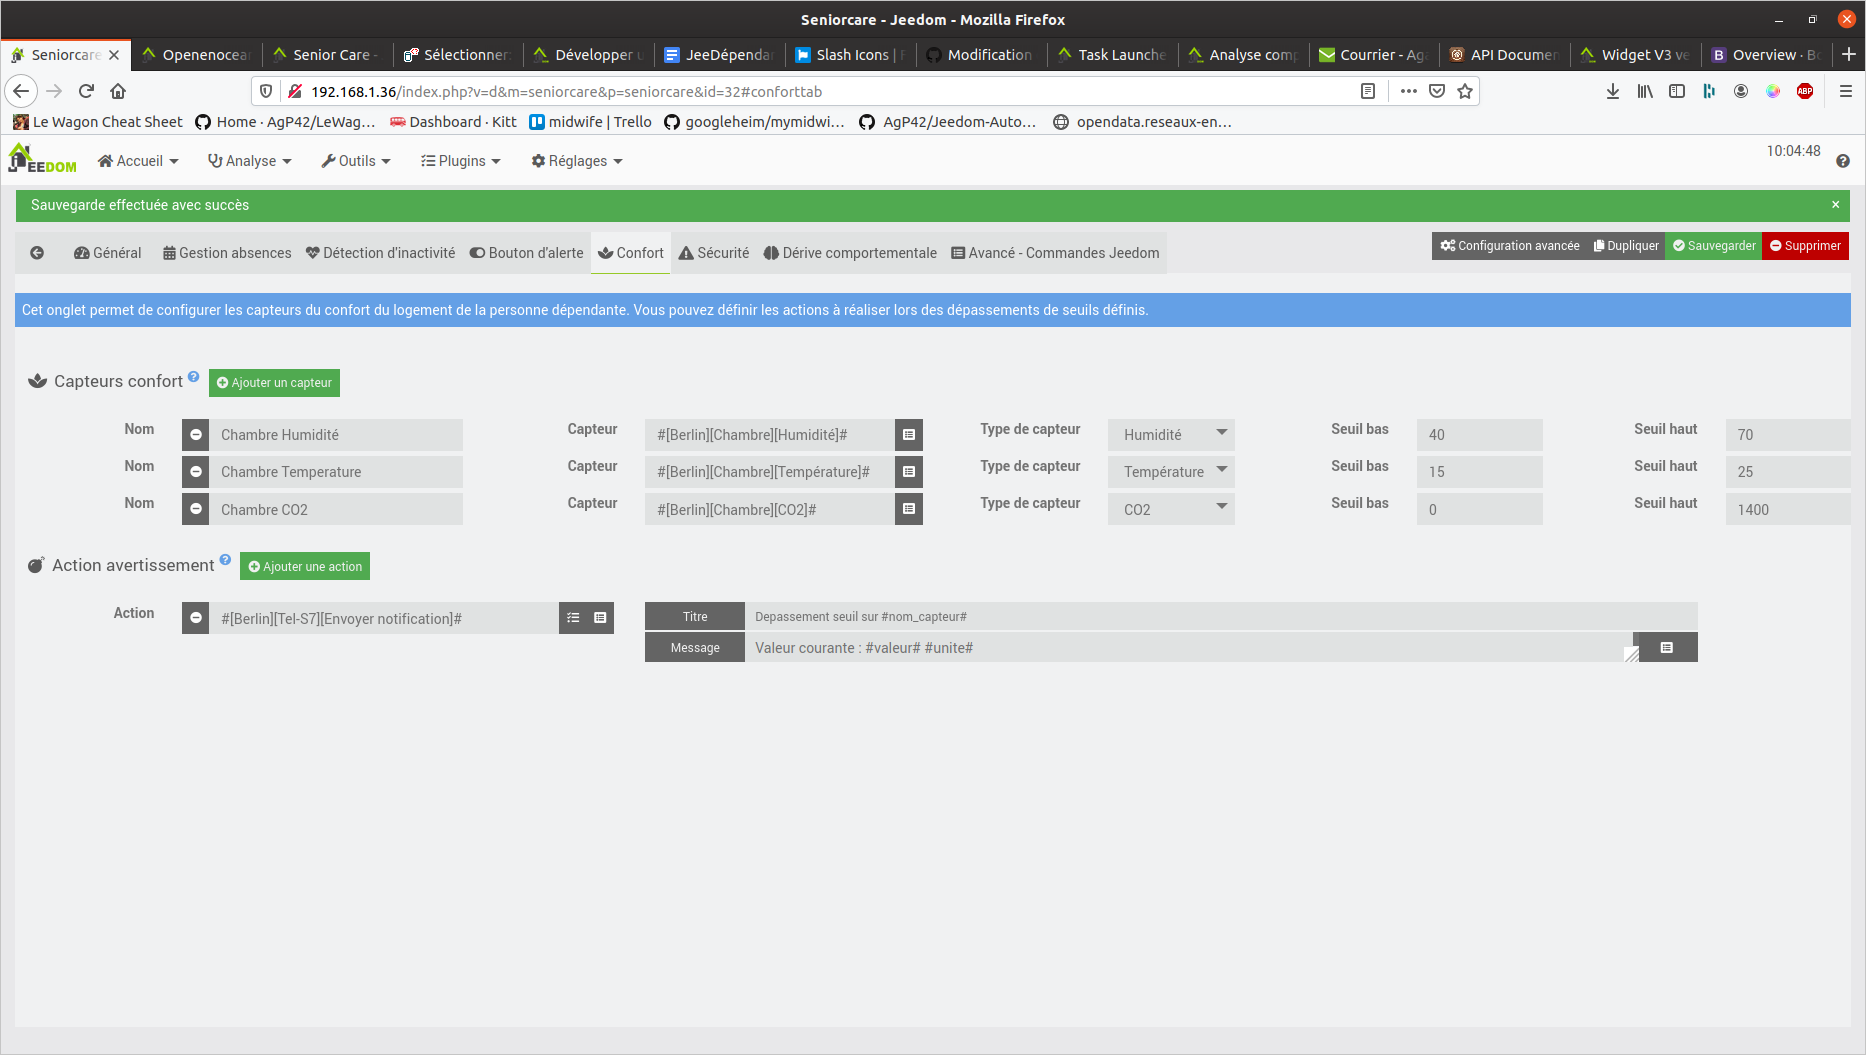
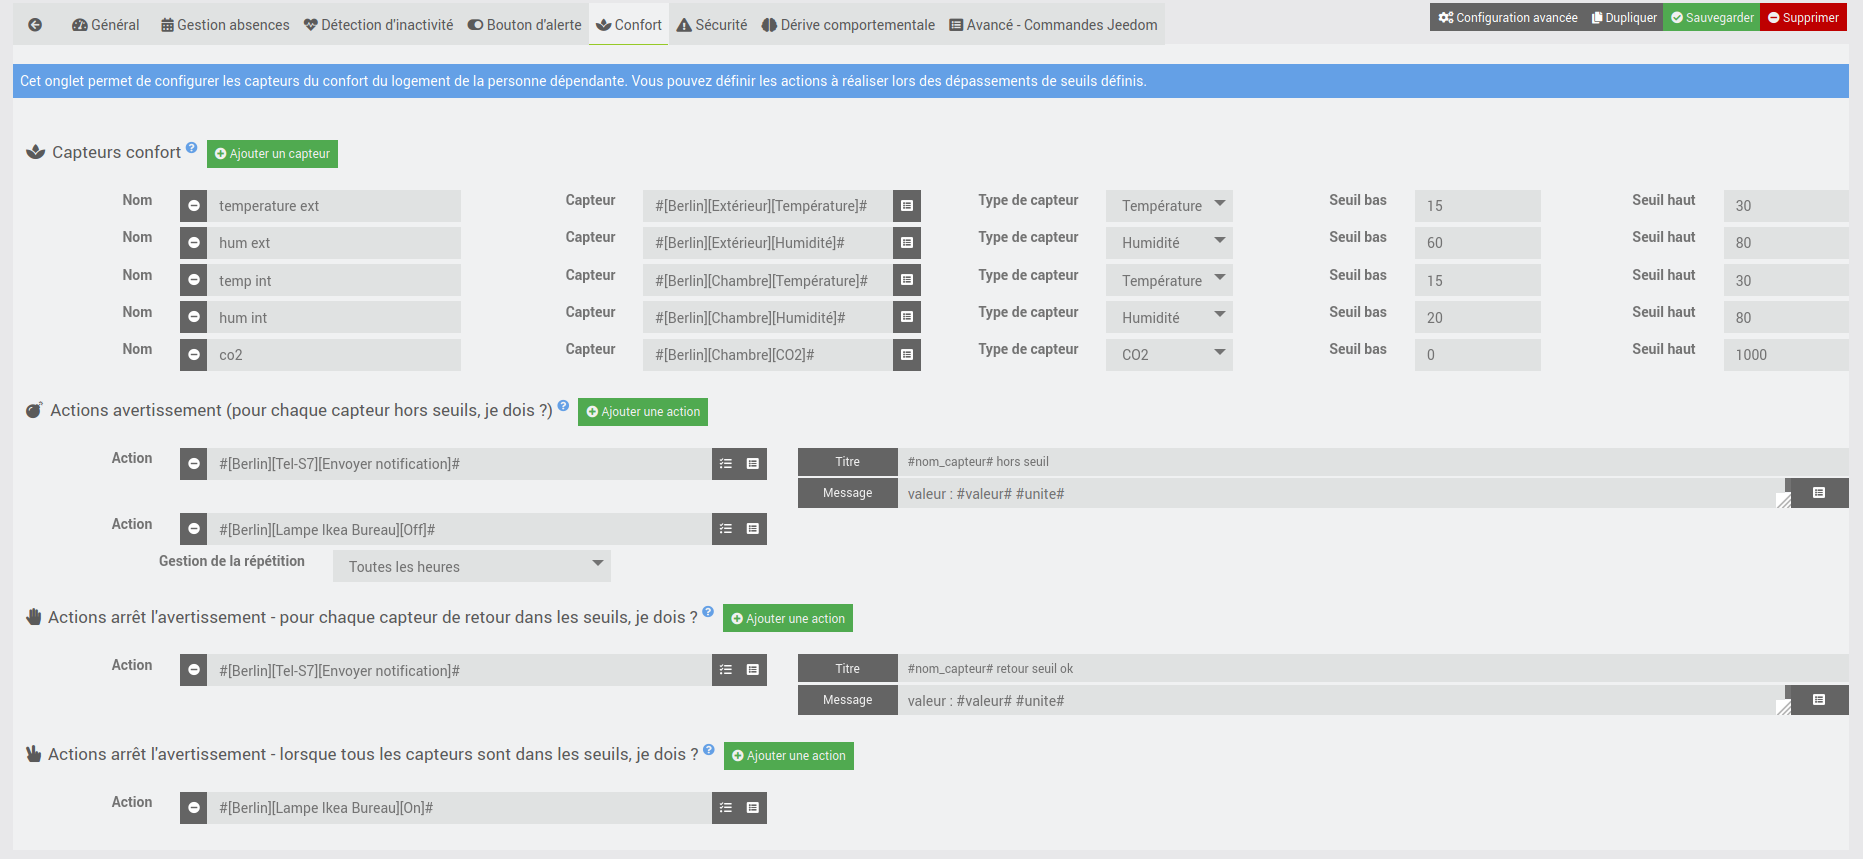
update doc

diff --git a/desktop/js/seniorcare.js b/desktop/js/seniorcare.js
@@ -309,7 +309,7 @@ function addSensorSecurity(_info) {
         div += '</div>';
       div += '</div>';
 
-      div += '<label class="col-sm-1 control-label">Bouton</label>';
+      div += '<label class="col-sm-1 control-label">Capteur</label>';
       div += '<div class="col-sm-2">';
         div += '<div class="input-group">';
           div += '<input class="expressionAttr form-control cmdInfo" data-l1key="cmd" />';

diff --git a/core/class/seniorcare.class.php b/core/class/seniorcare.class.php
@@ -89,14 +89,19 @@ class seniorcare extends eqLogic {
 
         $seniorcare->execActions('action_warning_confort', $_name, $_type, $valeur, $_seuilBas, $_seuilHaut); // on execute les actions pour chacun
 
+        return 0; // on a au moins 1 capteur hors seuil, ils doivent repondre tous true pour que le cron lance les actions "tous ok"
+
       } else if (($valeur >= $_seuilHaut || $valeur >= $_seuilBas) && $warningConfortLauched){ // on est dans les seuils et on a deja lancé notre warning au moins 1 fois, il faut lancer les actions de retour à la normal
         log::add('seniorcare', 'debug', 'Capteurs confort :' . $_name . ' retour à la normal !');
         $seniorcare->setCache('WarningConfortLauched' . $_cmd, false); // on remet dans le cache qu'on a pas lancé les actions
         $seniorcare->execActions('action_cancel_warning_confort', $_name, $_type, $valeur, $_seuilBas, $_seuilHaut); // appel de la boucle d'execution des actions avec les infos pour les tag des messages
+        return 1;
       } else if (($valeur >= $_seuilHaut || $valeur >= $_seuilBas) && !$warningConfortLauched){ // on est dans les seuils et on a pas lancé notre warning : rien a faire...
         log::add('seniorcare', 'debug', 'Capteurs confort :' . $_name . ' dans les seuils, on fait rien');
-      } else {
+        return 1;
+      } else { // on est pas dans les seuils mais on a deja lancé les alertes selon la repetition voulu
         log::add('seniorcare', 'debug', 'Capteurs confort :' . $_name . ' est hors seuils, mais il faut pas le dire...chutttt...');
+        return 0;
       } //*/
 
     }
@@ -263,18 +268,23 @@ class seniorcare extends eqLogic {
 
           if (is_object($seniorcare) && $seniorcare->getIsEnable() == 1) { // si notre eq existe et est actif
 
+            $etatSensor = 1;
             foreach ($seniorcare->getConfiguration('confort') as $confort) { // on boucle direct dans la conf
 
               log::add('seniorcare', 'debug', 'Cron15 boucle capteurs confort, name : ' . $confort['name'] . ' - cmd : ' . $confort['cmd']  . ' - ' . $confort['sensor_confort_type'] . ' - ' . $confort['seuilBas'] . ' - ' . $confort['seuilHaut']);
 
               if($confort['seuilBas'] != '' || $confort['seuilHaut'] != '') { // évalue si on a au moins 1 seuil defini (de toute facon on peut pas n'en remplir qu'1 des deux)
 
-            //    $valeur = jeedom::evaluateExpression($confort['cmd']);
-                $seniorcare->checkAndActionSeuilsSensorConfort($seniorcare, $confort['name'], $confort['cmd'], $confort['seuilBas'], $confort['seuilHaut'], $confort['sensor_confort_type']);
-
+                $etatSensor *= $seniorcare->checkAndActionSeuilsSensorConfort($seniorcare, $confort['name'], $confort['cmd'], $confort['seuilBas'], $confort['seuilHaut'], $confort['sensor_confort_type']);
+                log::add('seniorcare', 'debug', 'Cron15 boucle capteurs confort, etatSensor : ' . $etatSensor);
+                // il suffit qu'il y ai 1 capteur qui renvoie 0 pour que notre $etatSensor passe a 0
               }
 
             } // fin foreach tous les capteurs conforts de la conf
+
+            if($etatSensor){ // ils ont tous repondu 1, on va lancer les actions
+              $seniorcare->execActions('action_cancel_all_warning_confort'); // appel de la boucle d'execution des actions avec les infos pour les tag des messages
+            }
 
           } // fin if eq actif
 

diff --git a/docs/fr_FR/index.md b/docs/fr_FR/index.md
@@ -20,12 +20,25 @@ Ce plugin a été concu pour apporter une aide aux personnes souhaitant rester c
 Changelog
 ==========
 
-Ce plugin est en cours de developpement, toutes les fonctions ne sont pas encore codées, certaines n'ont été que partiellement testées. 
+Ce plugin est en cours de developpement, toutes les fonctions ne sont pas encore codées, certaines n'ont été que partiellement testées.
 
-* Version Beta 0.0.1 - 18 mars 2020 contient : 
-  - Fonction "Détection d'inactivitées"
-  - Fonction "Bouton d'alerte"
-  - Fonction "Capteurs confort"
+Version Beta 0.0.1 - 18 mars 2020 :
+---
+* Fonction "Détection d'inactivitées"
+* Fonction "Bouton d'alerte"
+* Fonction "Capteurs confort"
+
+Beta 0.0.2 - 21 mars 2020
+---
+
+* refactorisation du code, relecture et debug
+* Ajout Gestion des capteurs Sécurité
+* session de test n°1 et debug associé - voir docs/fr_FR/tests.md
+* Ajout des actions de desactivation des alertes "bouton d'alerte", "capteur securité" et "capteur confort"
+* Ajout gestion non-repetition des alertes sur les capteurs confort
+* Capteurs conforts évalués par cron15 et non plus par listener sur chacun
+* Mise à jour de la doc
+
 
 Configuration du plugin
 ========================
@@ -34,9 +47,9 @@ Ajouter les différentes personnes à suivre. Puis pour chacune configurer les d
 
 Onglet Général
 ---
-Donner le nom de la personne. 
+Donner le nom de la personne.
 "Objet parent" : il s'agit de l'objet Jeedom auquel rattacher la personne. Il doit etre différent de "Aucun".
-Activer la personne. 
+Activer la personne.
 Visible sert a visualiser les infos sur le dashboard, pour l'instant il n'y a rien a visualiser.
 
 Onglet **Gestion absences**
@@ -48,51 +61,87 @@ L’objectif ici étant de lier ce plugin au plugin « Agenda » pour les jours 
 
 Onglet **Détection d'inactivité**
 ---
+
+Il s'agit ici de déclencher une alerte en cas d'absence d'ativité de la personne, ce qui pourrait laisser penser à une chute.
+
+**A améliorer : le delai de detection d'inactivité selon jour ou nuit**
+
 3 étapes de fonctionnement :
 
-1. Définir des capteurs de détection d’activité, quelle qu’elle soit (porte, fenêtre, interrupteur, mouvement, …). Et un timer associé. Si aucun des capteurs d'activité n'a été activé à l’échéance du timer : le plugin passera à l’étape « Avertissement »
-2. « Avertissement » : 
-  * définir une liste d’actions pour prévenir la personne que le système a détecté une inactivité et lui permettre de réagir avant que l’alerte soit envoyée aux aidants extérieurs. 
-  * Définir la durée maximum pendant laquelle la personne pourra réagir avant de déclencher l'alerte. 
-  * Puis définir les actions pour cette étape : 
-    * les actions pour lancer l’avertissement 
-    * et les actions pour couper l’avertissement si la personne réagit (la réaction de la personne est détectée par n’importe lequel des capteurs définis à l’étape 1). Si la personne ne réagit pas et que le plugin passe a l'étape "Alerte" à la fin du timer, ces actions pour "couper l'avertissement" ne seront pas réalisées !
-3. « Alerte » : 
-  * Définir la liste d’actions pour lancer l’alerte aux aidants et avertir la personne qu’une alerte est en cours. 
-  * Définir la liste d’action pour désactiver ces actions d’alerte. L'alerte est déactivée par n’importe quel capteur de l’étape 1. Donc la personne dans son logement peut le faire elle-meme, ou un aidant en entrant dans le logement (si le capteur de porte d’entrée est un « capteur de détection d’activité » défini à l’étape 1)
-  
+1. Définir des capteurs de détection d’activité, quelle qu’elle soit (porte, fenêtre, interrupteur, mouvement, …), et un délai associé. Si aucun des capteurs d'activité n'a été activé à l’échéance du délai : le plugin déclenchera l’étape suivante « Avertissement »
+2. « Avertissement » :
+  * L'objectif de cette étape est de prévenir la personne que le système a détecté une inactivité et lui permettre de réagir avant que l’alerte ne soit envoyée aux aidants extérieurs.
+  * Configuration à réaliser :
+    - définir la liste d’actions pour lancer l’avertissement
+    - définir la durée maximum pendant laquelle la personne pourra réagir avant de déclencher l'alerte.
+    - définir les actions pour couper l’avertissement si la personne réagit (la réaction de la personne est détectée par n’importe lequel des capteurs définis à l’étape 1).
+  * Si la personne ne réagit pas dans le delai imparti, le plugin passera a l'étape "Alerte". Dans ce cas, les actions pour "couper l'avertissement" ne seront pas réalisées.
+3. « Alerte » :
+  * Définir la liste d’actions pour lancer l’alerte aux aidants et avertir la personne qu’une alerte est en cours.
+  * Définir la liste d’action pour désactiver ces actions d’alerte. L'alerte est déactivée par n’importe quel capteur de l’étape 1. Donc la personne dans son logement pourra le faire elle-meme, ou un aidant une fois sur place.
+
 ![](https://raw.githubusercontent.com/AgP42/seniorcare/dev/docs/assets/images/Detection_inactivite.png)
 
 Onglet **Bouton d'alerte**
 ---
-* Définir un ou plusieurs capteurs de type "bouton" ou "interupteur" 
-* Définir les actions qui seront immédiatement réalisées à l'activation de n'importe quel capteur. 
+
+Cet onglet permet de regrouper différents boutons d'alertes immédiates que la personne pourra activer pour demander de l'aide. Il peut s'agir d'un bouton à porter sur soi ou de boutons dans une zone dangereuse.
+
+* Définir un ou plusieurs capteurs de type "bouton" ou "interrupteur"
+* Définir les actions qui seront immédiatement réalisées à l'activation de n'importe lequel des capteurs.
+* Définir un ou plusieurs capteurs de type "bouton" ou "interrupteur" qui serviront à annuler l'alerte
+* Définir les actions qui seront réalisées à l'activation des capteurs d'annulation.
+
 Si l'une de vos action est de type "message", vous pouvez utiliser le tag #nom_personne# qui enverra le nom configuré dans l'onglet "Général"
+
 ![](https://raw.githubusercontent.com/AgP42/seniorcare/dev/docs/assets/images/Boutons_alerte.png)
 
 Onglet **Confort**
 ---
-* Définir les différents capteurs de confort du logement que vous souhaitez suivre. Il peut s'agit de capteurs de Température, d'humidité, de CO2 ou de tout autre type. 
-  * Vous devez donner un nom unique à chacun de vos capteurs. Attention : le changement de nom d'un capteur revient à le supprimer et a en recréer un nouveau, vous perdez donc l'historique associé. 
-  * Sélectionner le capteur associé
+
+Cet onglet permet de regrouper les informations de confort sur le logement. Il peut s'agir de la température ou humidité pour différentes pièces ou du niveau de CO2. A partir de 1000 ppm (CO2), il est recommandé d'aérer le logement. Vous pouvez aussi suivre la température extérieure.
+
+* Définir les différents capteurs de confort du logement que vous souhaitez suivre. Il peut s'agit de capteurs de Température, d'humidité, de CO2 ou de tout autre type.
+  * Vous devez donner un nom unique à chacun de vos capteurs. Attention : le changement de nom d'un capteur revient à le supprimer et a en recréer un nouveau, vous perdez donc l'historique associé.
+  * Sélectionner la commande jeedom du capteur associé
+  * Définir son type
   * Définir les seuils haut et bas
-* Définir les actions qui seront executées lors du depassement d'un seuil. Si l'une de vos action est de type "message", vous pouvez utiliser les tags suivants : 
+* Définir les actions qui seront exécutées pour chaque capteur lors du dépassement d'un seuil, et la gestion voulu pour les répétitions (tant que le capteur est hors seuils).
+* Définir (ou non) les actions qui seront exécutées pour chaque capteur lors du retour dans les seuils aprés un dépassement de seuil (exécutées à chaque "retour", pour chaque capteur).
+* Définir (ou non) les actions à exécuter lorsque tous les capteurs ont une valeur dans leurs seuils.
+
+Détails de fonctionnement :
+* Toutes les 15 min, Jeedom évaluera pour chacun des capteurs si sa valeur est dans les seuils définis ou non.
+* Les actions "Actions avertissement (pour chaque capteur hors seuils, je dois ?)" seront alors exécutées pour chacun des capteurs hors seuils, sauf si l'avertissement a déjà été donné pour ce capteur et que l’utilisateur a choisi de ne pas le répéter
+* Lorsqu'un capteur était hors seuil précédemment et revient dans ses seuils, les actions "Actions arrêt l'avertissement - pour chaque capteur de retour dans les seuils, je dois ?" seront alors exécutées pour chacun des capteurs
+* Si tous les capteurs sont évalués "dans les seuils", les actions "Actions arrêt l'avertissement - lorsque tous les capteurs sont dans les seuils, je dois ?" seront alors exécutées
+
+
+Si l'une de vos action est de type "message", vous pouvez utiliser les tags suivants :
   * #nom_personne# qui enverra le nom configuré dans l'onglet "Général"
   * #nom_capteur#
   * #type_capteur#
   * #valeur#
-  * #seuil_bas# 
+  * #seuil_bas#
   * #seuil_haut#
   * #unite#
-  
+
 ![](https://raw.githubusercontent.com/AgP42/seniorcare/dev/docs/assets/images/Confort.png)
 
 Onglet **Sécurité**
 ---
 
-To Do
+Cet onglet permet de regrouper les capteurs du logement pour les urgences : détecteur de fumée, alerte fuite de gaz, … pour la personne dans son logement mais aussi avertir immédiatement l’extérieur dans le cas où la personne ne peut déjà plus réagir.
 
-L’idée ici est de regrouper les capteurs du logement sur les urgences : détecteur de fumée, alerte fuite de gaz, … pour la personne dans son logement mais aussi immédiatement l’extérieur au cas où la personne ne peut déjà plus réagir.
+* Définir un ou plusieurs capteurs de sécurité. L'alerte sera enclenchée à chaque changement d'état du capteur, peu importe que ca soit 0->1 ou 1->0.
+* Définir les actions qui seront immédiatement réalisées à l'activation de n'importe lequel des capteurs.
+* Définir un ou plusieurs capteurs de type "bouton" ou "interrupteur" qui serviront à annuler l'alerte
+* Définir les actions qui seront réalisées à l'activation des capteurs d'annulation.
+
+Si l'une de vos action est de type "message", vous pouvez utiliser le tag #nom_personne# qui enverra le nom configuré dans l'onglet "Général"
+
+![](https://raw.githubusercontent.com/AgP42/seniorcare/dev/docs/assets/images/Onglet_securité.png)
+
 
 Onglet **Dérive comportementale**
 ---
@@ -113,6 +162,33 @@ Onglet **Avancé - Commandes Jeedom**
 Panneau desktop
 ================
 To Do - Il permettra de suivre les différents capteurs et visualiser les alertes
+
+Comportement au démarrage et après redémarrage Jeedom
+======
+
+Fonction de **Détection d'inactivité**
+---
+* Après la création et la 1ere sauvegarde, il faut initialiser le mécanisme en déclenchant l'un des capteur d'activité. Les actions de "warning" vont se déclencher dans la 1ere minute après la 1ere sauvegarde si aucun capteur n'a été activé.
+* Après un redémarrage de Jeedom, le système aura perdu l'information de la date du dernier capteur d'activité et si les alarmes ont déjà été envoyées, les actions warnings vont donc se déclencher.
+
+
+Fonction **Bouton d'alerte**
+---
+RAS
+
+Fonction **Confort**
+---
+RAS
+
+Fonction **Sécurité**
+---
+RAS
+
+Remarques générales et informations diverses
+===
+* Pour les capteurs "détections d'inactivité", "bouton d'alerte", "bouton d'annulation d'alerte", "capteur de sécurité" et "bouton d'annulation d'alerte de sécurité", c'est le changement de valeur du capteur qui est détecté et déclenche les actions, la valeur (0 ou 1) n'est pas prise en compte !
+* Pour les capteurs conforts, leur valeur est évaluée toutes les 15 min et non à chaque changement de l'une d'elle
+* Pour tous les capteurs définis dans le plugin, il faut donner un nom unique. Le changement de nom d'un capteur revient à le supprimer et a en recréer un nouveau, vous perdez donc l'historique associé.
 
 Exemples d'usage et configuration associée
 ========================

diff --git a/docs/fr_FR/todo.md b/docs/fr_FR/todo.md
@@ -1,10 +1,7 @@
-* Décrire dans la doc :
-   - Comportement au demarrage pour la fonction "Détection d'inactivité": après création et la 1ere sauvegarde, il faut initialiser le mecanisme en declenchant l'un des capteur d'activité. Les actions de "warning" vont se declencher dans la 1ere minute apres la 1ere sauvegarde si aucun capteur n'a été activé.
-   - Aprés un reboot de jeedom, le systeme aura perdu l'information de la date du dernier capteur d'activité et si les alarmes ont déjà été envoyées, les actions warnings vont donc se déclancher
-   - Pour les capteurs "detections d'activité", "bouton d'alerte", "bouton d'annulation d'alerte", "capteur de sécurité" et "bouton d'annulation d'alerte de sécurité", c'est le changement de valeur du capteur qui est detecté et déclenche les actions, la valeur (0 ou 1) n'est pas prise en compte !
-
 * Dans la détection d'inactivité, comment l'aidant signale qu'il a vu l'alerte et arrive ?
 * Idem pour les boutons d'alerte
-* Comment desactiver les alertes conforts ?
+=> Définir une liste d'action et la commande API pour les activer ?
 
-* Pour les alertes conforts qui sont actuellement gérées par trigger par capteur, comment gerer si un sort des seuils et un autre y rerentre si l'action est une lampe qui change de couleur ? Gérer les actions par types de capteur confort ? Ca devient un bordel...
+* Pourquoi a l'enregistrement la fct execute s'applique a tout le monde si commande nouvelle ou à toutes SAUF les conforts pour les commandes existantes ??? Alors que c'est traité par une boucle, donc forcement identique !!! (mais semble marcher quand meme...) Bizarre...
+
+* A améliorer : le delai de detection d'inactivité selon jour ou nuit

diff --git a/docs/fr_FR/changelog.md b/docs/fr_FR/changelog.md
@@ -8,9 +8,13 @@ Beta
 * Gestion des capteurs de confort
 * Détection d'inactivitée
 
-0.0.2 - 19 mars 2020
+0.0.2 - 21 mars 2020
 ---
 
 * refactorisation du code, relecture
 * Ajout Gestion des capteurs Sécurité
-* session de test n°1
+* session de test n°1 et debug associé
+* Ajout des actions de desactivation des alertes "bouton d'alerte", "capteur securité" et "capteur confort"
+* Ajout gestion non-repetition des alertes sur les capteurs confort
+* Capteurs conforts évalués par cron15 et non plus par listener sur chacun
+* Mise à jour de la doc
